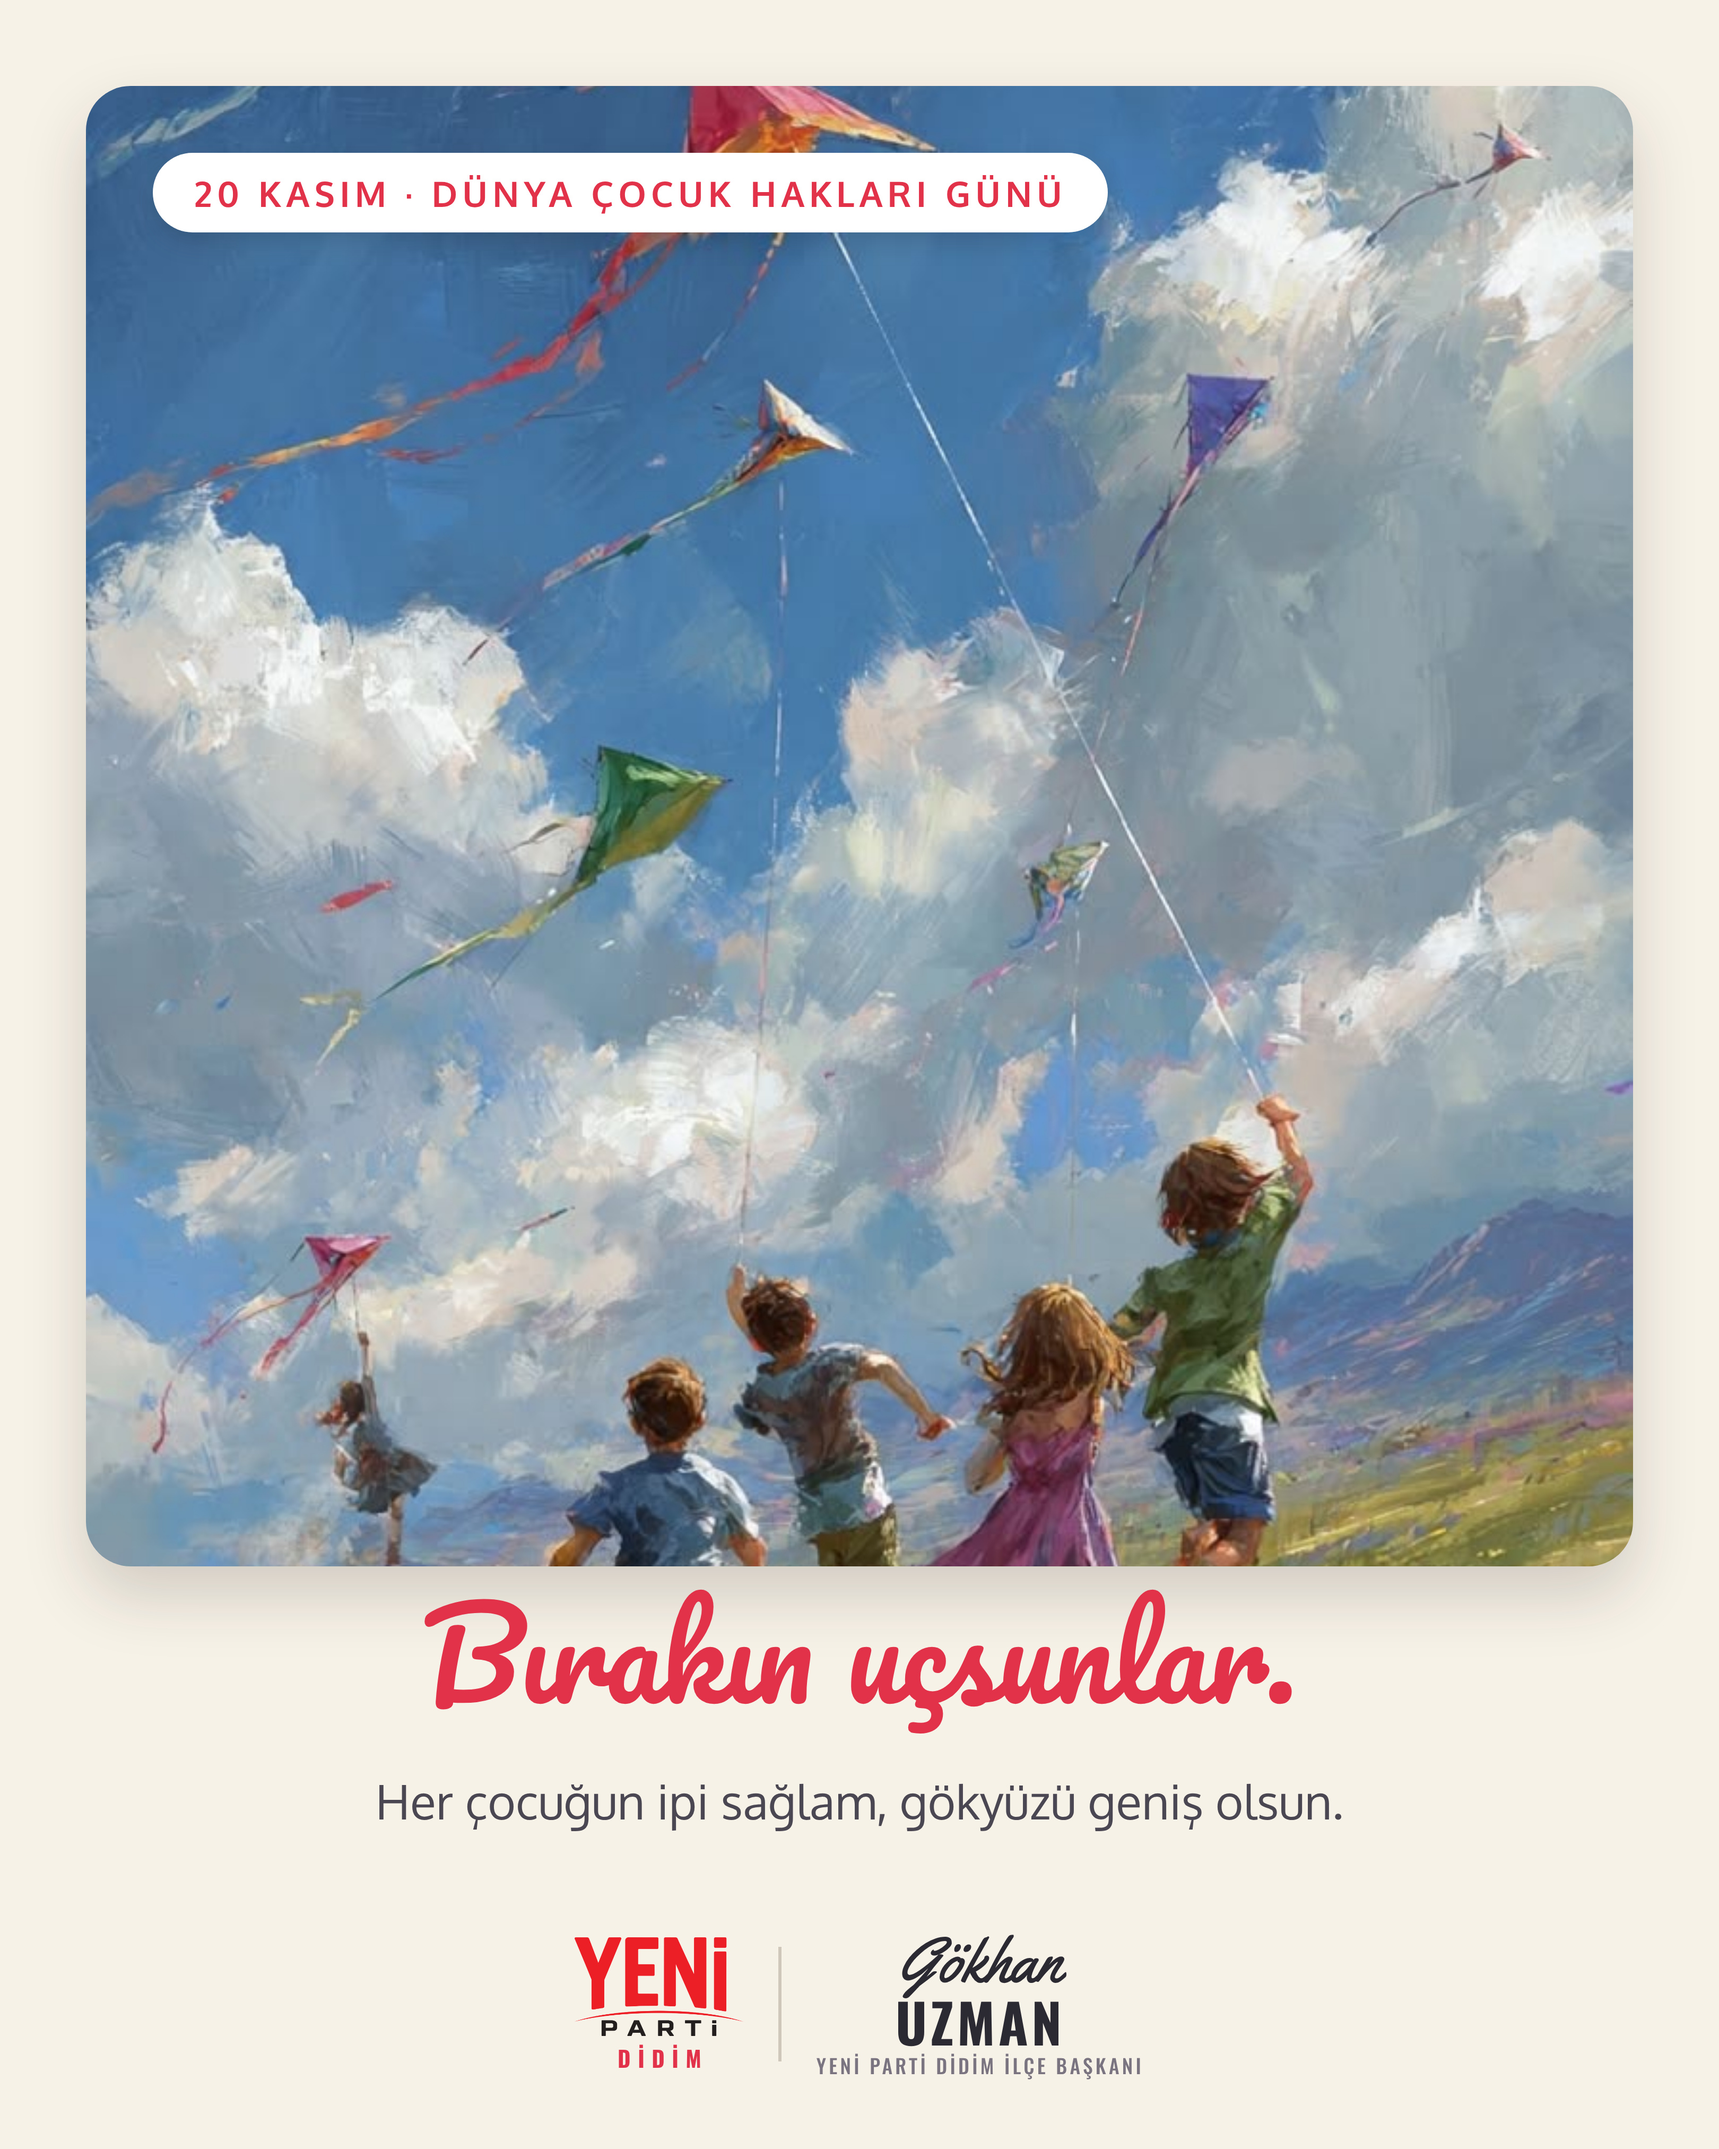
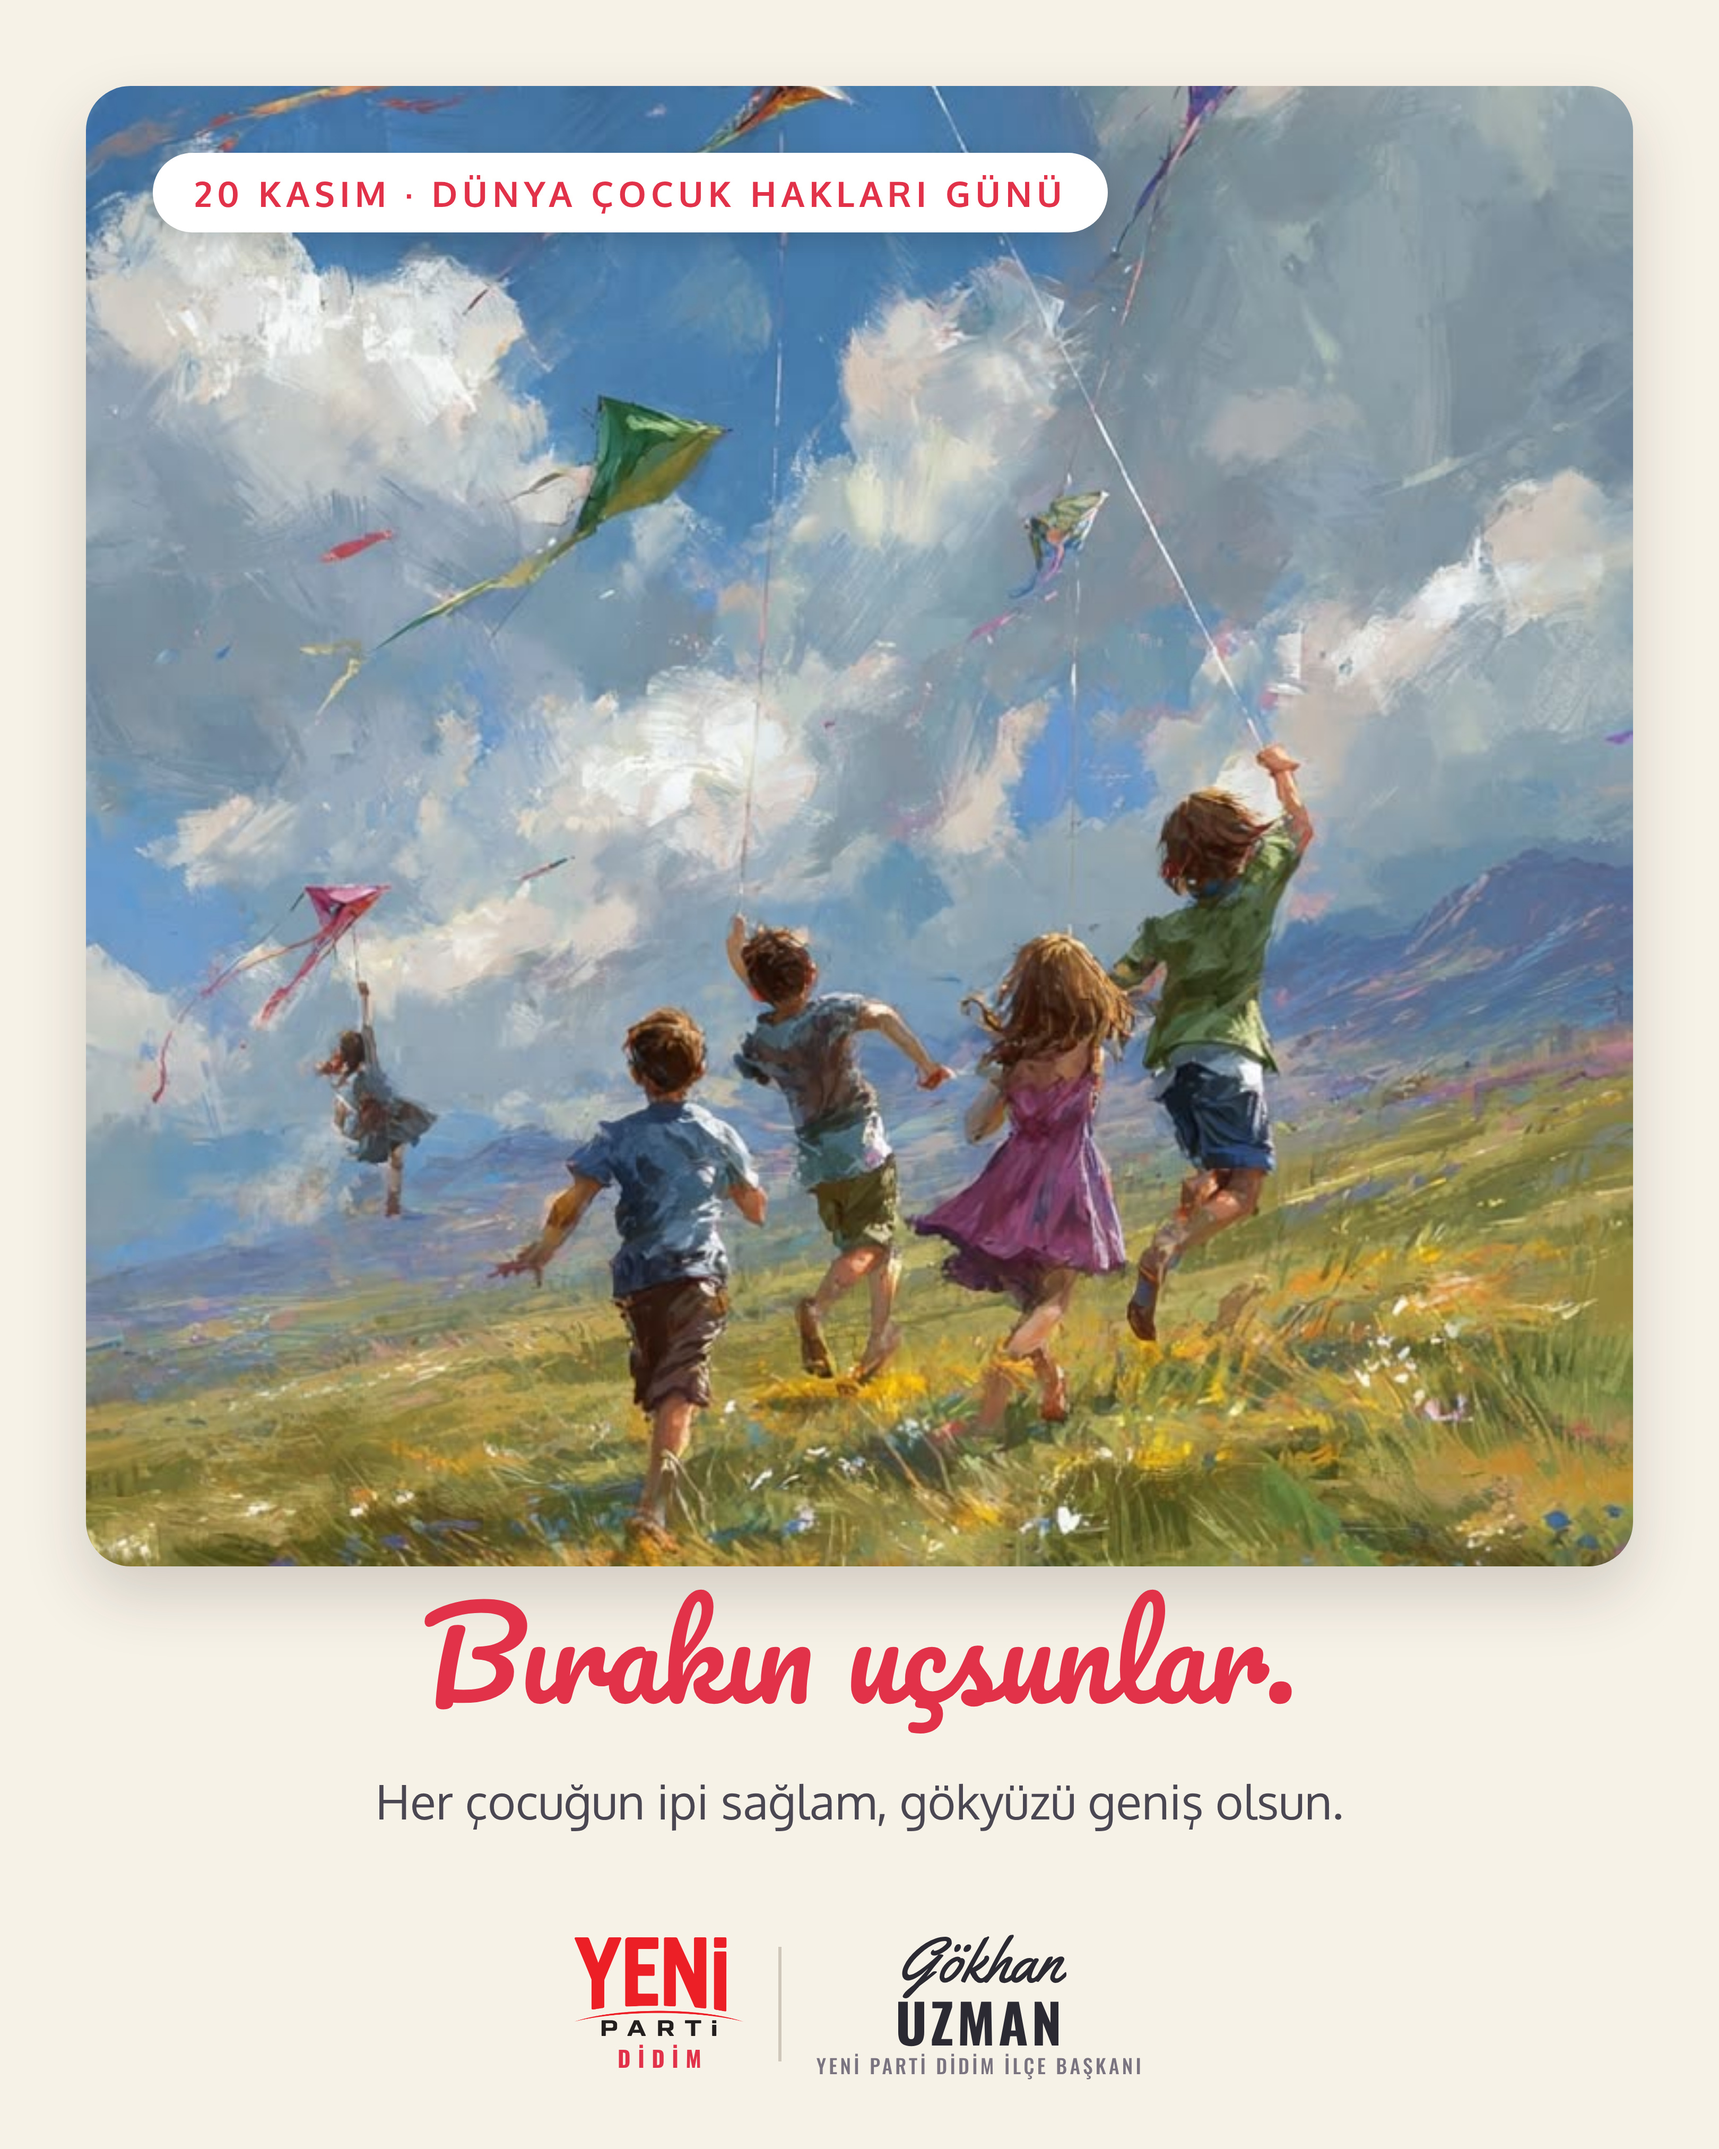
Gökhan Uzman Çocuk Hakları: çocuklar karede tam görünüyor
Claude-Session: https://claude.ai/code/session_01SatttGbgBLoCnk9KGLypWv

diff --git a/tasarim/kisisel/cocuk-haklari-gokhan/post2.html b/tasarim/kisisel/cocuk-haklari-gokhan/post2.html
@@ -10,7 +10,7 @@
 @font-face{font-family:O5;src:url(../../fontlar-gecici/Oswald-500.ttf)}
 html,body{margin:0;width:1080px;height:1350px;overflow:hidden;background:#F7F2E8;font-family:Ox,sans-serif;color:#2B2A33}
 .kart{position:absolute;left:54px;right:54px;top:54px;height:930px;border-radius:28px;overflow:hidden;box-shadow:0 18px 40px rgba(40,30,20,.18)}
-.kart img{position:absolute;left:0;top:-300px;width:972px}
+.kart img{position:absolute;left:0;top:-520px;width:972px}
 .rozet{position:absolute;left:96px;top:96px;background:#fff;border-radius:999px;padding:14px 26px;font:700 22px/1 Ox;letter-spacing:.14em;color:#E2324A;box-shadow:0 6px 16px rgba(0,0,0,.15)}
 h1{position:absolute;left:0;right:0;top:992px;margin:0;text-align:center;font:76px/1.2 KS;color:#E2324A}
 p{position:absolute;left:90px;right:90px;top:1110px;margin:0;text-align:center;font:400 30px/1.4 Ox;color:#4A4752}
